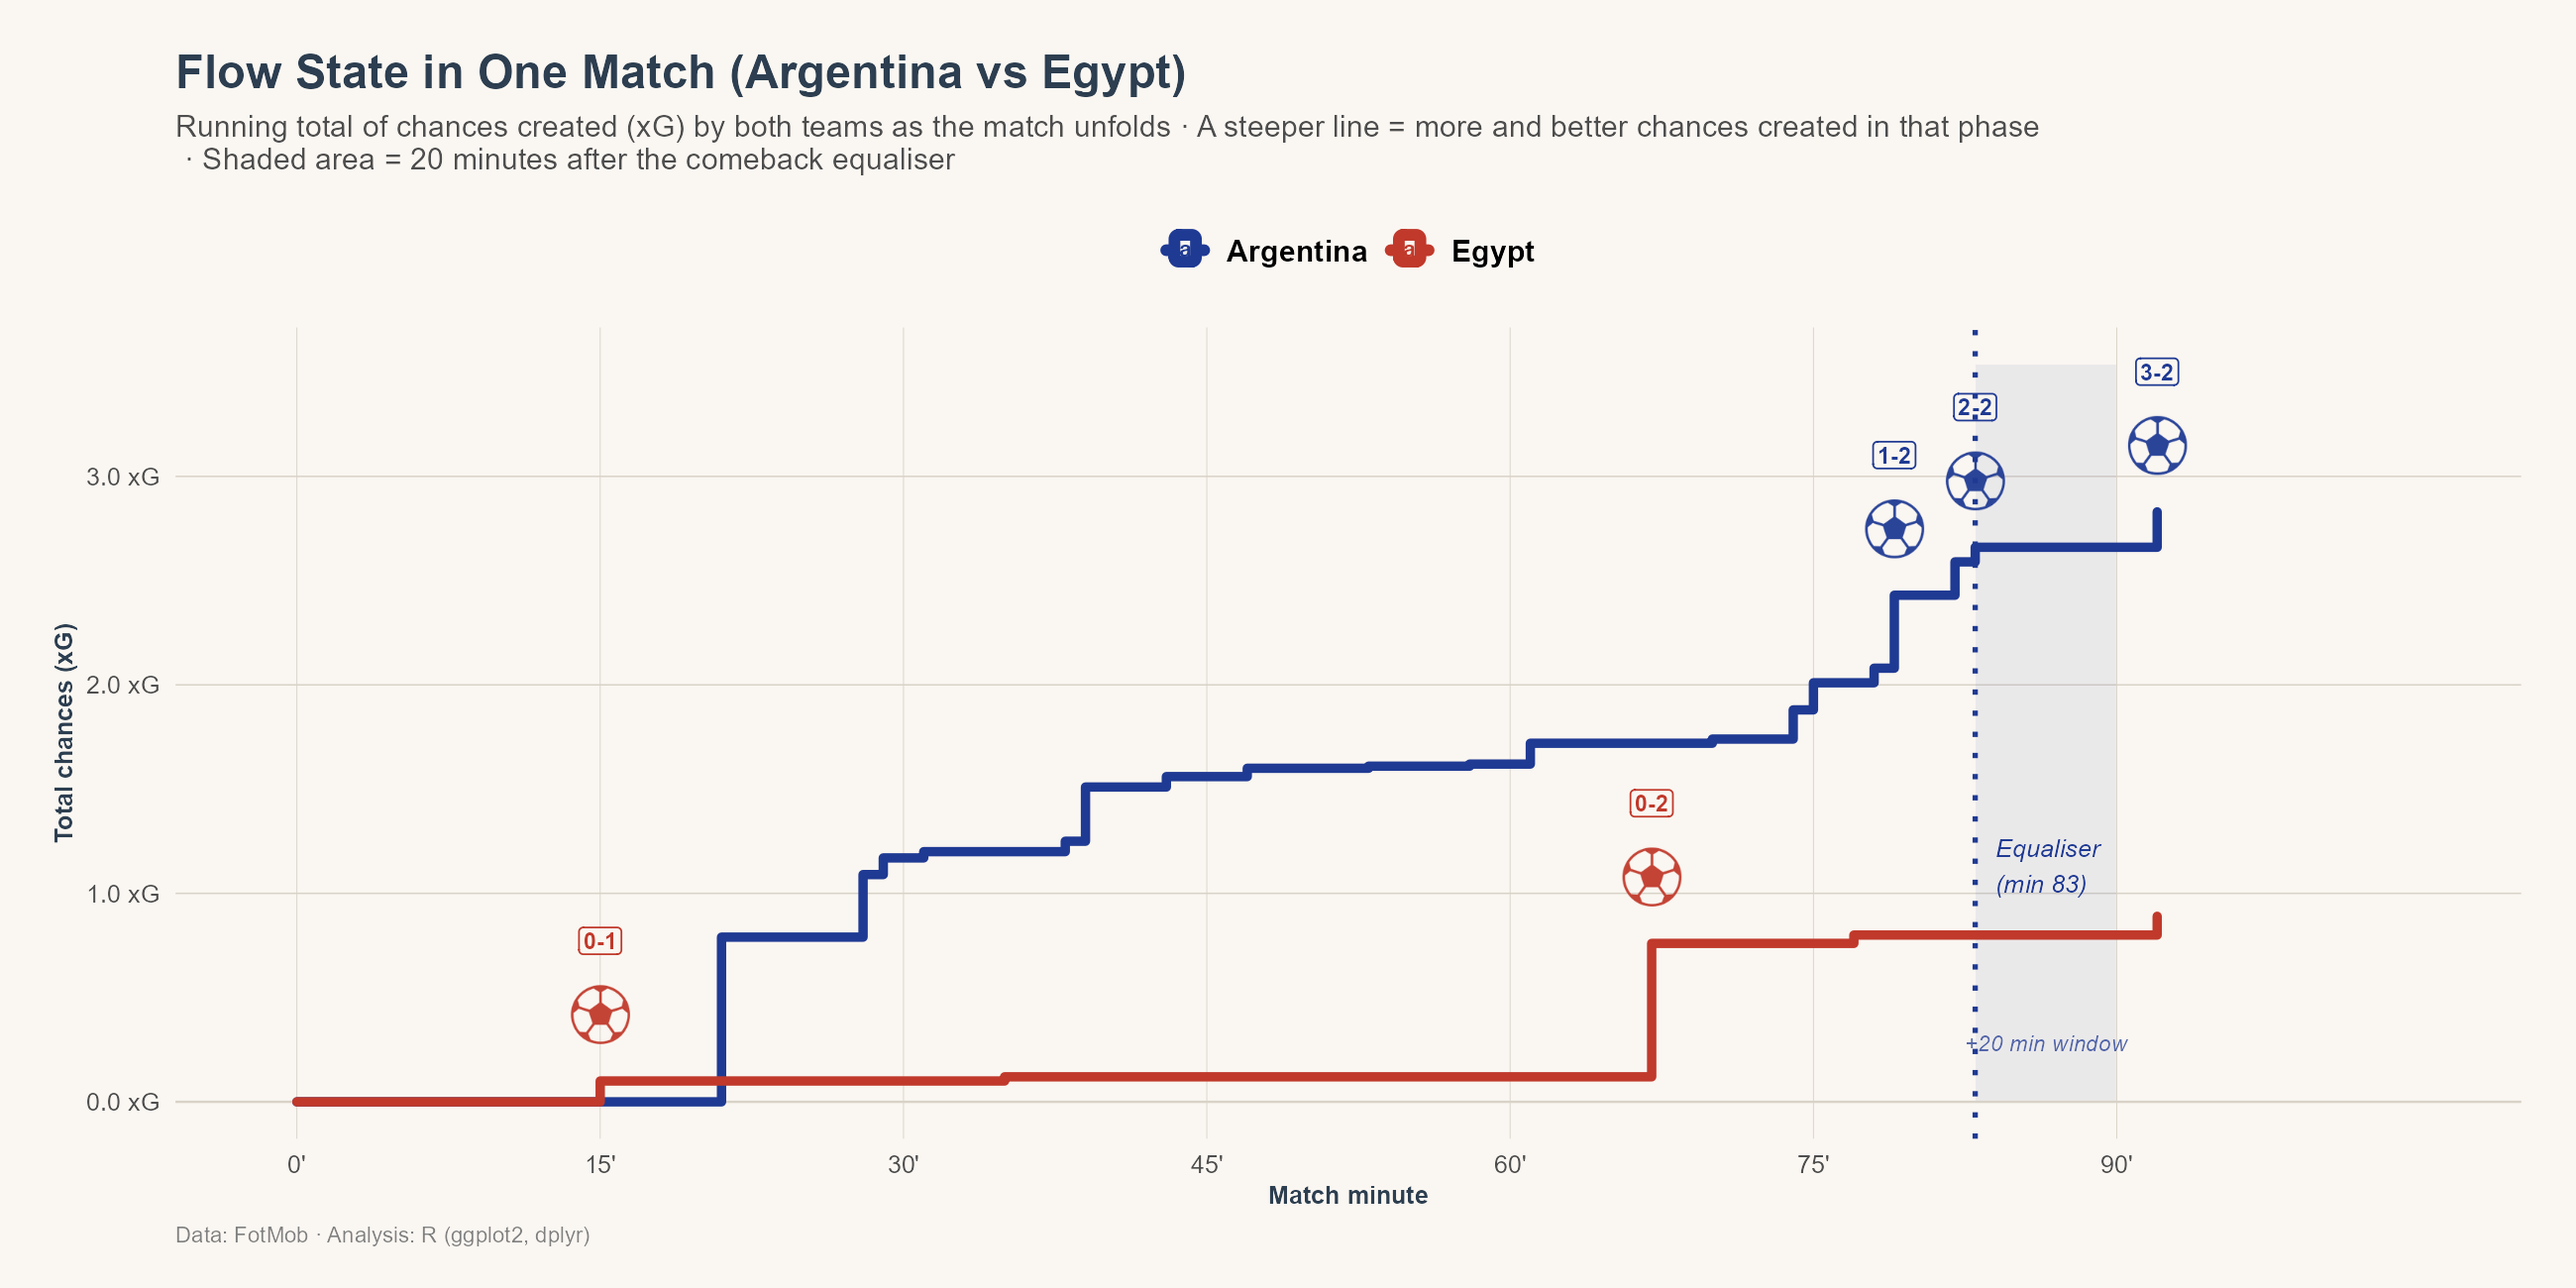
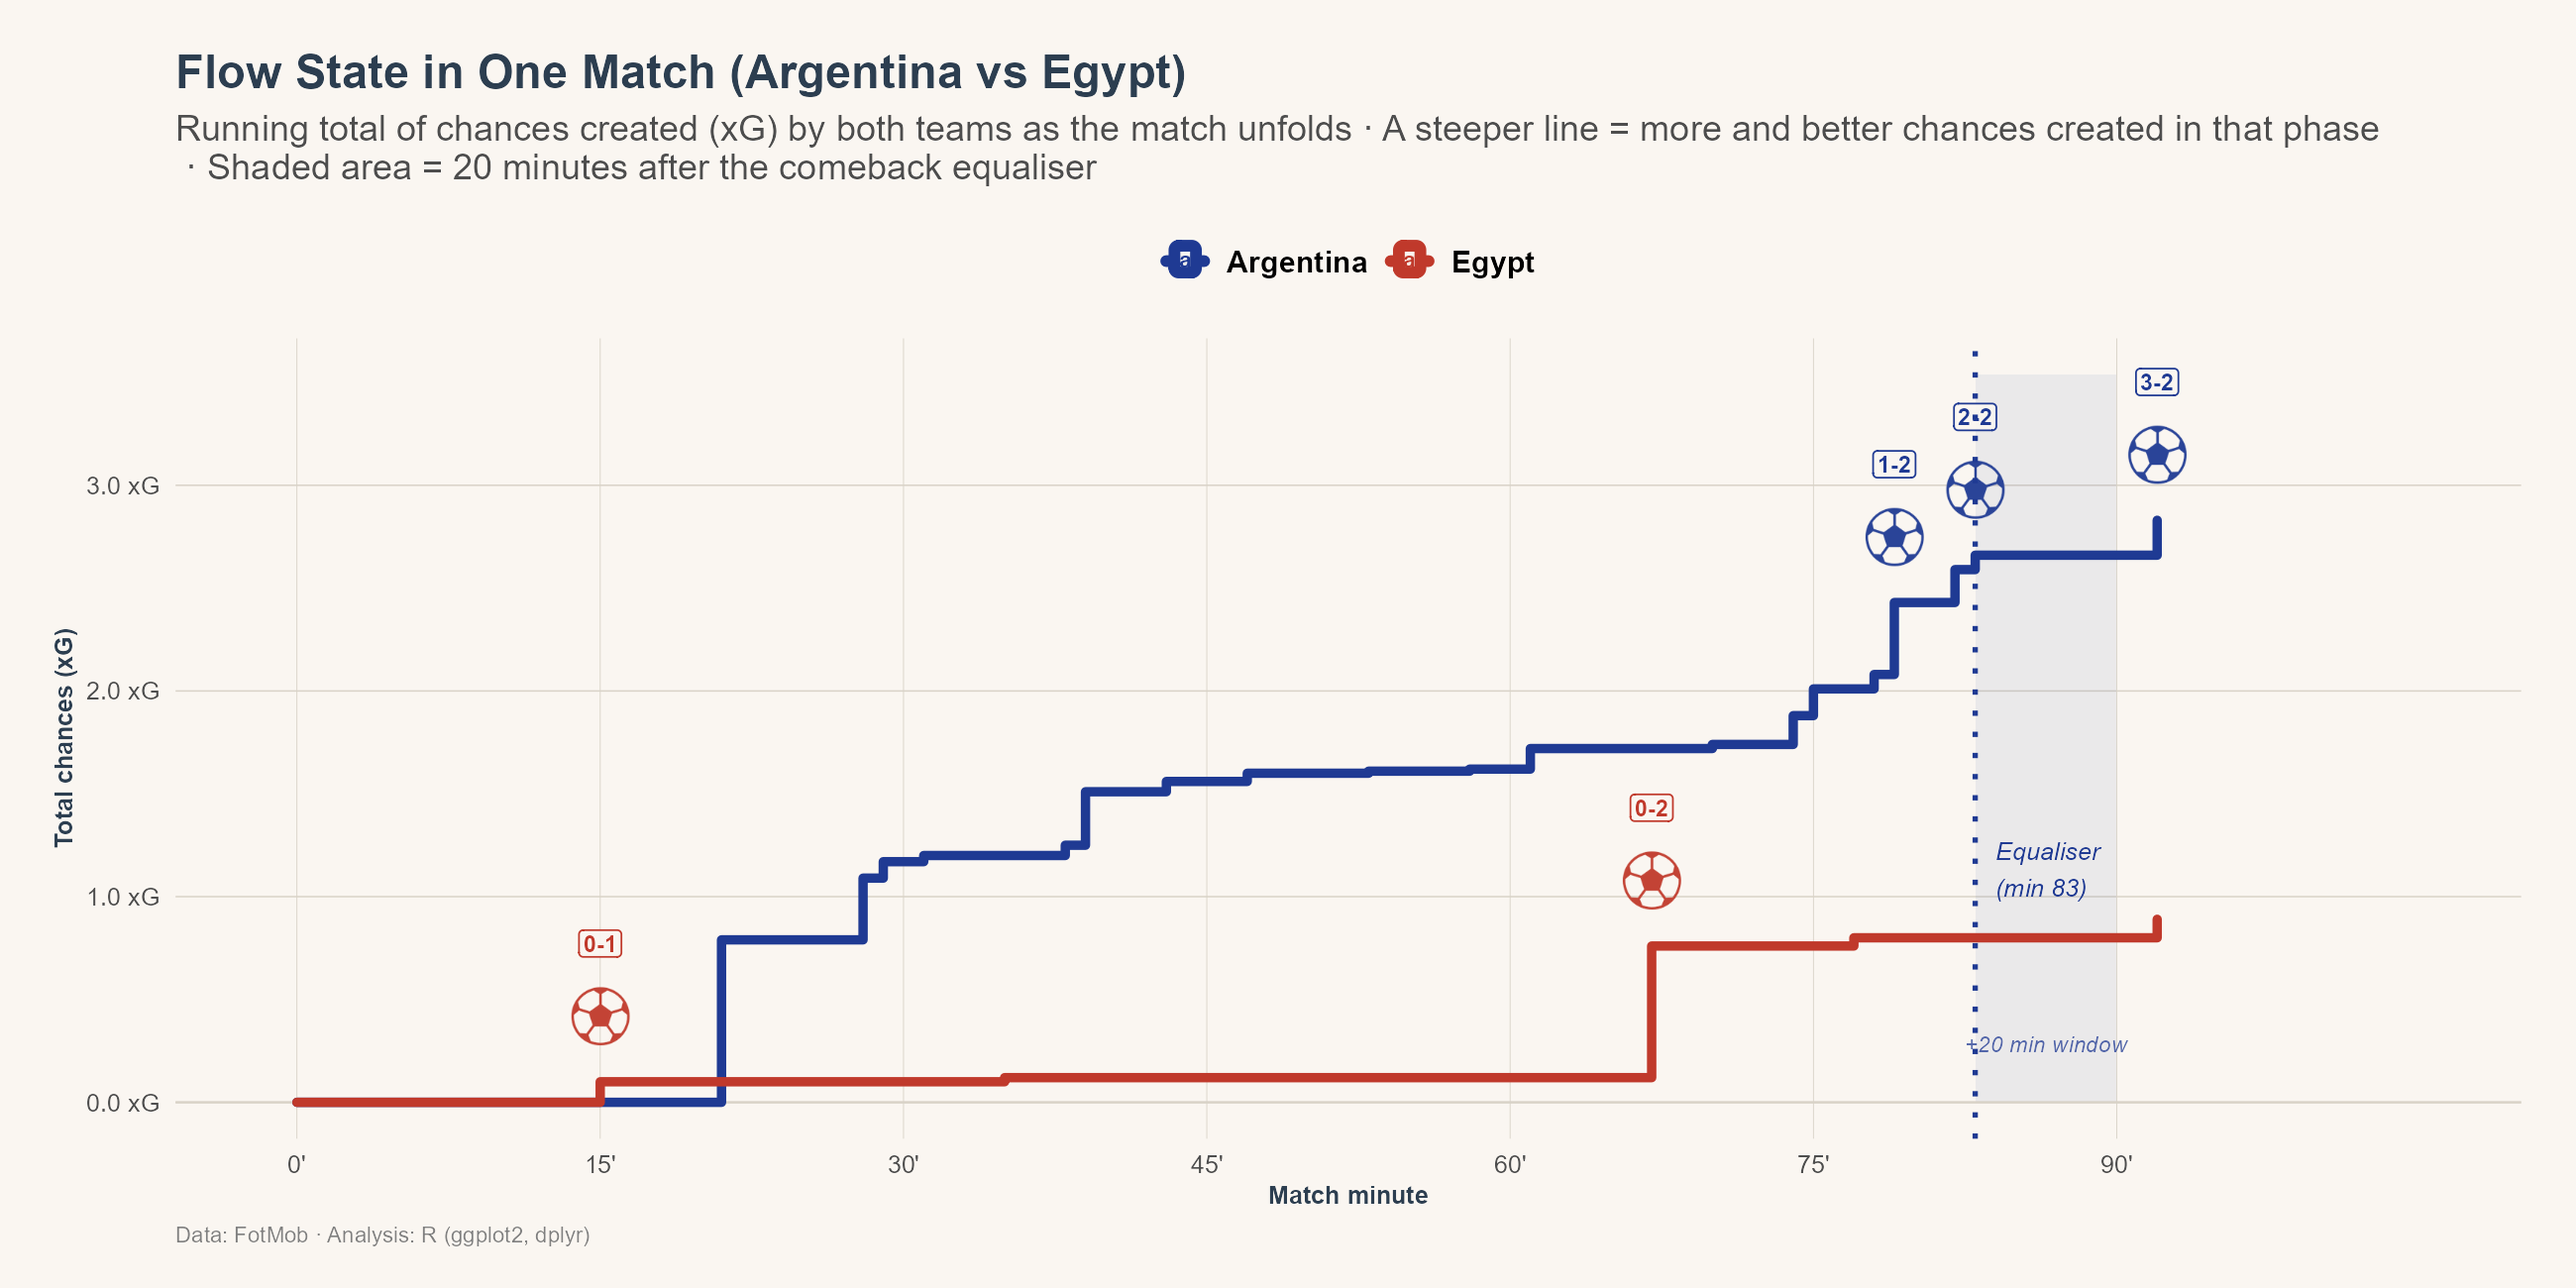
Add German-language report figures and consolidate raw next-goal chart
- Move the raw next-goal split chart into 04_report_figures.R as figure 11,
  so the report folder is the single source of figures for both the
  technical report and the article/journalist write-ups
- Add 04_report_figures_de.R and world_cup_match_de.R: same models and
  layout, all plot text translated to German, written to report_de/ and
  world_cup_2026/de/
- Normalise subtitle font size across figures of different physical widths
  so they read consistently once displayed together
- Drop the now-unused article figures script and output folder

diff --git a/README.md b/README.md
@@ -51,7 +51,6 @@ This is exactly the kind of match that gives "momentum" its reputation. The ques
 teams subsequently perform as their strength, venue and game state predict.
 The only detectable reaction is a brief dip by the team that conceded.
 
-This is the "momentum debunked" outcome — a legitimate, well-supported result, not a null finding from a project that failed to find anything.
 
 ![Momentum decay curve](output/figures/report/01_momentum_decay.png)
 
@@ -121,13 +120,19 @@ and venue, and worst-case bounds are reported.
 │   ├── 01_build_datasets.R     goal_events · team_windows · equaliser_events
 │   ├── 02_train_poisson_model.R   RQ1: Tweedie counterfactual + placebo + robustness
 │   ├── 03_train_logistic_model.R  RQ2: symmetric logistic + censoring checks
-│   └── 04_report_figures.R     all 10 report figures
+│   ├── 04_report_figures.R     all 11 report figures
+│   └── 04_report_figures_de.R  same 11 figures, German-language labels
 ├── notebooks/                  exploratory data analysis
 ├── assets/football_icons/      goal-marker icons used by the figures
 ├── output/
 │   ├── tables/                 full model outputs (h1_poisson_results.txt, h2_logistic_results.txt)
-│   └── figures/report/         all figures (300 dpi)
+│   └── figures/
+│       ├── report/             all 11 figures, English (300 dpi)
+│       └── report_de/          same 11 figures, German
 └── world_cup_2026/             standalone single-match case studies (presentation demo)
+    ├── world_cup_match.R       English figures
+    ├── world_cup_match_de.R    German figures (written to world_cup_2026/de/)
+    └── world_cup_shots.csv     manually entered shot data (FotMob)
 ```
 
 ## Reproducing the analysis
